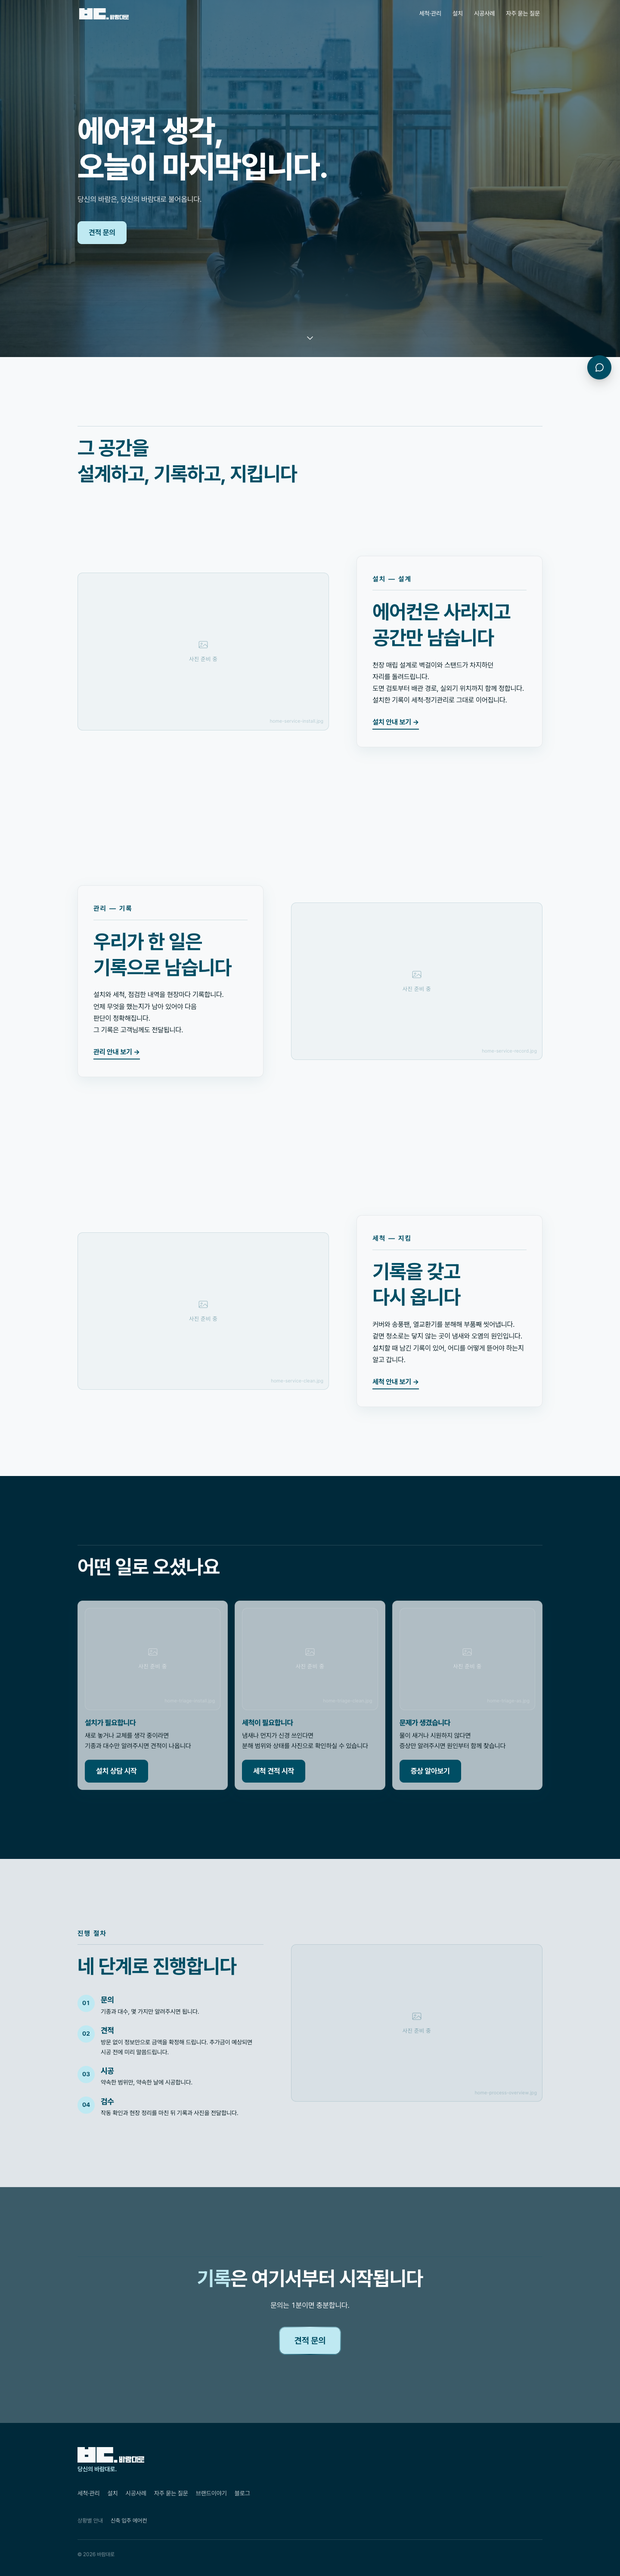
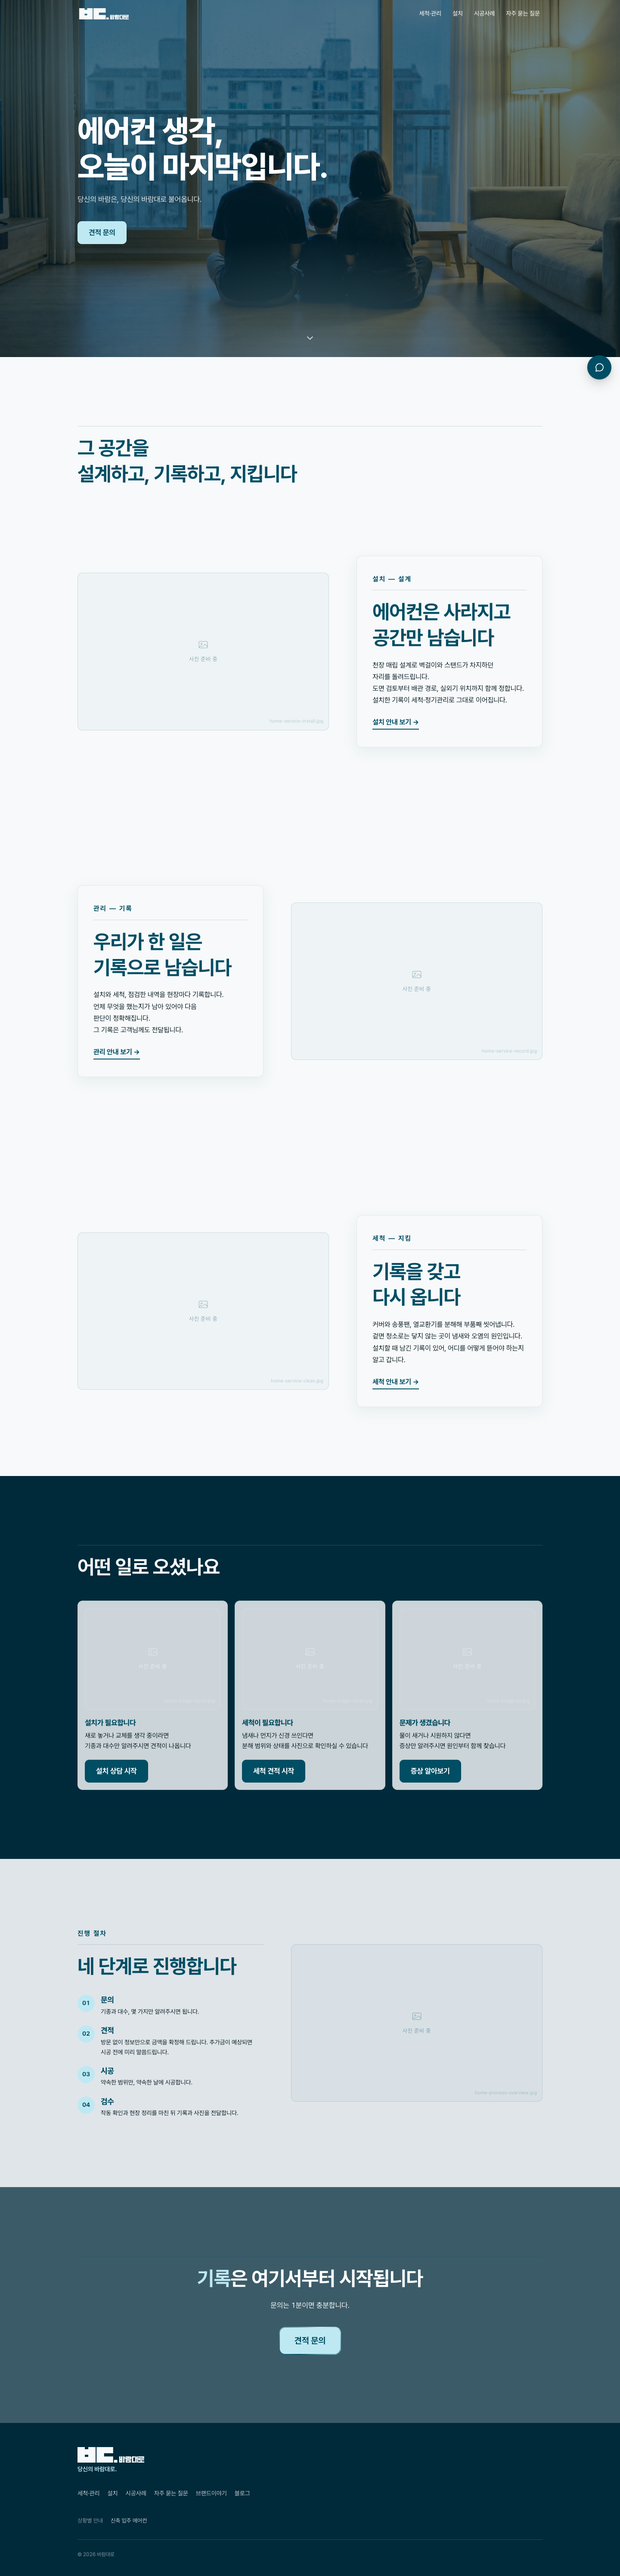
feat(glass): 조정 3건 — 딥틸 위 카드 Heavy, 앰비언트 완화, Dark 테두리 사유
- NeedTriage 카드 Medium -> Heavy. 규칙을 global.css에 명시:
  다크 섹션 위 유리는 Heavy 기본, Medium은 밝은 배경 위에서만
  (Medium이 딥틸 위에 오면 표면 173,187,194·teal 4.69 턱걸이·회청색으로 탁함 — 1차 실측)
- .br-ambient ice 42% -> 30%
- Dark 테두리 white 10% 유지 — ink 8%는 딥틸 위에서 보이지 않음. 유일한 스펙 이탈, 사유 주석

재검증·캡처는 screenshots/glass-system/VERIFY.md

Changed region(s): [[0.125, 0.6227, 0.875, 0.7161]]

diff --git a/src/styles/global.css b/src/styles/global.css
@@ -247,6 +247,8 @@ html.br-js .br-reveal.br-in { opacity: 1; transform: translateY(0); }
    등급은 커스텀 프로퍼티로 정의하고, 클래스와 컴포넌트가 그 값을 소비한다.
    ⚠ 규칙
    - 본문이 올라가는 표면은 불투명도 70% 이상 (heavy 82 / medium 70). light(55)는 짧은 라벨 전용
+   - 다크 섹션(teal-deep 등) 위 유리는 **Heavy를 기본값**으로 한다. Medium은 밝은 배경 위에서만 —
+     Medium(70%)이 딥틸 위에 오면 표면이 173,187,194로 내려앉아 teal 제목 대비 4.69(턱걸이)·회청색으로 탁해진다(1차 실측)
    - 유리 위에 유리를 얹지 않는다 — blur 비용이 곱으로 는다 (검증 스크립트가 중첩 0을 센다)
    - opacity로 흐리게 하지 않는다 — .br-reveal이 opacity를 소유해 덮어쓴다. 배경 알파(color-mix)로만
    - 미지원·투명도 최소화 환경은 불투명 폴백 (아래 @supports / @media)
@@ -275,6 +277,8 @@ html.br-js .br-reveal.br-in { opacity: 1; transform: translateY(0); }
 .br-glass--heavy  { background: var(--glass-heavy-bg);  -webkit-backdrop-filter: var(--glass-heavy-fx);  backdrop-filter: var(--glass-heavy-fx); }
 .br-glass--medium { background: var(--glass-medium-bg); -webkit-backdrop-filter: var(--glass-medium-fx); backdrop-filter: var(--glass-medium-fx); }
 .br-glass--light  { background: var(--glass-light-bg);  -webkit-backdrop-filter: var(--glass-light-fx);  backdrop-filter: var(--glass-light-fx); }
+/* Dark 테두리는 스펙(ink 8%)에서 의도적으로 이탈해 white 10%를 쓴다 —
+   ink 8%는 딥틸 위에서 사실상 보이지 않아 테두리가 없는 것과 같다. 유일한 스펙 이탈. */
 .br-glass--dark {
   background: var(--glass-dark-bg);
   -webkit-backdrop-filter: var(--glass-dark-fx);
@@ -312,7 +316,7 @@ html.br-js .br-reveal.br-in { opacity: 1; transform: translateY(0); }
   z-index: -1;
   pointer-events: none;
   background:
-    radial-gradient(55% 45% at 12% 18%, color-mix(in srgb, var(--br-ice) 42%, transparent), transparent 70%),
+    radial-gradient(55% 45% at 12% 18%, color-mix(in srgb, var(--br-ice) 30%, transparent), transparent 70%),
     radial-gradient(45% 40% at 88% 32%, color-mix(in srgb, var(--br-teal) 9%, transparent), transparent 70%),
     radial-gradient(60% 50% at 50% 96%, color-mix(in srgb, var(--br-mist) 75%, transparent), transparent 70%);
 }

diff --git a/screenshots/glass-system/VERIFY.md b/screenshots/glass-system/VERIFY.md
@@ -1,10 +1,12 @@
-# 글래스 시스템 1차 검증 (2026-08-27)
+# 글래스 시스템 1차 검증 (2026-08-27 · 조정 3건 반영)
+
+조정: 딥틸 위 고객유형 카드 Medium→Heavy / 앰비언트 ice 42→30% / Dark 테두리 white 10% 유지(사유 주석)
 
 - 브랜치 `feat/glass-system` · 1440×900 / 390×844 · Chrome headless
 - 대비: 실제 합성 픽셀(패딩 띠 5점 중앙값, 트랜지션·smooth 스크롤 정지) vs 텍스트 computed color
 - 샘플러 검증: 불투명 base 지점 → rgb(247,249,250) 정확 일치
 
-## 대비 실측 — AA 4.5 미달 0건
+## 대비 실측 — AA 4.5 미달 0건 · 최저 6.13 (2차 조정 후)
 
 | AA | 대비 | 표면 | 실측 표면색 |
 |---|---:|---|---|
@@ -14,16 +16,16 @@
 | ✓ | 8.75 | 서비스 Medium #2 제목 | rgb(247,249,250) |
 | ✓ | 15.77 | 서비스 Medium #3 본문 | rgb(246,248,249) |
 | ✓ | 8.67 | 서비스 Medium #3 제목 | rgb(246,248,249) |
-| ✓ | 8.53 | 고객유형 Medium #1 본문 (딥 위) | rgb(173,187,194) |
-| ✓ | 4.69 | 고객유형 Medium #1 제목 (딥 위) | rgb(173,187,194) |
-| ✓ | 8.53 | 고객유형 Medium #2 본문 (딥 위) | rgb(173,187,194) |
-| ✓ | 4.69 | 고객유형 Medium #2 제목 (딥 위) | rgb(173,187,194) |
-| ✓ | 8.53 | 고객유형 Medium #3 본문 (딥 위) | rgb(173,187,194) |
-| ✓ | 4.69 | 고객유형 Medium #3 제목 (딥 위) | rgb(173,187,194) |
-| ✓ | 7.41 | CTA Dark 제목 | rgb(57,90,103) |
-| ✓ | 7.02 | CTA Dark 서브 | rgb(57,90,103) |
-| ✓ | 11.02 | 헤더 Heavy · 히어로 영상 위 | rgb(205,210,213) |
-| ✓ | 15.81 | 헤더 Heavy · 서비스 섹션 위 | rgb(247,248,250) |
+| ✓ | 11.16 | 고객유형 Heavy #1 본문 (딥 위) | rgb(203,212,216) |
+| ✓ | 6.13 | 고객유형 Heavy #1 제목 (딥 위) | rgb(203,212,216) |
+| ✓ | 11.16 | 고객유형 Heavy #2 본문 (딥 위) | rgb(203,212,216) |
+| ✓ | 6.13 | 고객유형 Heavy #2 제목 (딥 위) | rgb(203,212,216) |
+| ✓ | 11.16 | 고객유형 Heavy #3 본문 (딥 위) | rgb(203,212,216) |
+| ✓ | 6.13 | 고객유형 Heavy #3 제목 (딥 위) | rgb(203,212,216) |
+| ✓ | 7.40 | CTA Dark 제목 | rgb(57,90,104) |
+| ✓ | 7.01 | CTA Dark 서브 | rgb(57,90,104) |
+| ✓ | 11.01 | 헤더 Heavy · 히어로 영상 위 | rgb(205,210,212) |
+| ✓ | 15.91 | 헤더 Heavy · 서비스 섹션 위 | rgb(247,249,250) |
 
 해석적 하한(등급 알파 × 최악 배경): Medium over 딥틸·teal **4.67**(실측 4.69), Light over 딥틸·teal **3.21** → Light는 라벨 전용.
 
@@ -31,10 +33,10 @@
 `prefers-reduced-transparency: reduce`(CDP 에뮬레이션, 미디어쿼리 매치 true): header/svc/card = base 불투명, cta = teal-deep 불투명, backdrop-filter none. `@supports not (backdrop-filter)` 블록 dist 포함.
 
 ## 성능 (390px)
-스크롤 248프레임 평균 16.6ms · p95 17.3 · 최대 17.8 — 60fps 유지, 드롭 0. blur 레이어 **8**(헤더1·서비스 패널3·고객유형3·CTA1) · **중첩 0**.
+스크롤 248프레임 · 평균 16.6ms · p95 17.5ms · 최대 19.7ms · >20ms 0개 · 레이어 7 중첩 0
 
 ## 앰비언트
-서비스 섹션 거터 6점: base 대비 최대 채널 편차 **16/255**.
+서비스 섹션 거터 6점: base 대비 최대 채널 편차 **10/255**.
 
 ## 회귀
 챗봇 진입점 5·패널 열림 ✓ · 4xx/5xx 0 · overflow 0 · dist 규칙(사진0·무상0·기간0·최상급0·공포0·보증1 기존) · 카피 JSON diff 0.
